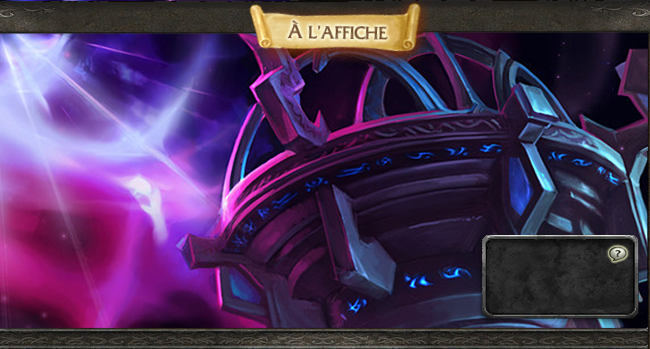
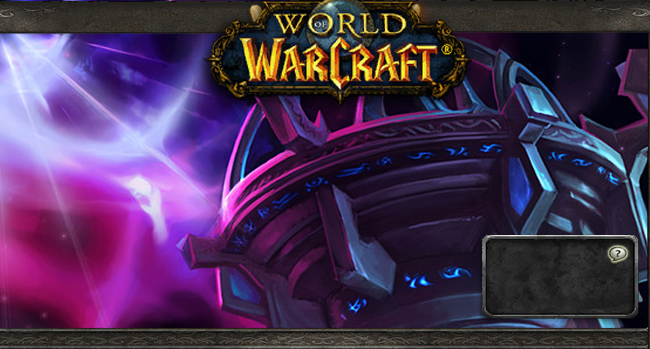
- Change background image - Add comments

Changed region(s): [[0.2769, 0.0, 0.7385, 0.3152]]

diff --git a/LauncherBox.cs b/LauncherBox.cs
@@ -35,6 +35,7 @@ namespace LauncherShyax
 {
     public partial class Launcher : Form
     {
+        #region Variables
         public bool isAllowedToDeleteCache
         {
             get { return checkBoxCache.Checked; }
@@ -47,6 +48,8 @@ namespace LauncherShyax
 
         public bool wowFound;
         private string _wowDir;
+        #endregion
+
         public Launcher()
         {
             InitializeComponent();
@@ -61,6 +64,9 @@ namespace LauncherShyax
             labelStatut.Text = "En attente de l'utilisateur...";
         }
 
+        /// <summary>
+        /// Find the game's directory locally (in the directory of the launcher) then in the registry
+        /// </summary>
         private void FindWoWDir()
         {
             labelStatut.Text = "Recherche du répertoire d'installation de World Of Warcraft...";
@@ -109,22 +115,10 @@ namespace LauncherShyax
             }
         }
 
-        private void DeleteCache()
-        {
-            const string cacheDir = "Cache";
-            DirectoryInfo cacheInfo = new DirectoryInfo(Path.Combine(_wowDir, cacheDir));
-            if (cacheInfo.Exists)
-                cacheInfo.Delete(true);
-        }
-
-        private void LaunchGame()
-        {
-            const string wowExe = "Wow.exe";
-            ProcessStartInfo wowStartInfo = new ProcessStartInfo(Path.Combine(_wowDir, wowExe));
-            Process.Start(wowStartInfo);
-            Close();
-        }
-
+        /// <summary>
+        /// Verify if we have the latest version of the server using version.xml
+        /// If the file of the latest is not found, DownloaderBox is launched
+        /// </summary>
         private void VerifyVersion()
         {
             XmlDocument xmlDoc = new XmlDocument();
@@ -156,6 +150,9 @@ namespace LauncherShyax
             }
         }
 
+        /// <summary>
+        /// Verify the status of the realm server and the world server using worldPort, realmPort and ipAddress
+        /// </summary>
         private void VerifyStatus()
         {
             IPAddress[] address = Dns.GetHostAddresses(ipAddress);
@@ -183,6 +180,9 @@ namespace LauncherShyax
             pictureBoxWorld.Visible = true;
         }
 
+        /// <summary>
+        /// Create a new realmlist.wtf
+        /// </summary>
         private void ChangeRealmlist()
         {
             const string dataDir = "Data";
@@ -191,14 +191,38 @@ namespace LauncherShyax
             FileInfo realmList = new FileInfo(Path.Combine(_wowDir, dataDir, localeDir, realmFile));
             if (realmList != null)
             {
-                realmList.Delete();                
+                realmList.Delete();
             }
             FileStream stream = realmList.Create();
-            byte[] bytes = Encoding.UTF8.GetBytes(("set realmlist "+ipAddress+":"+worldPort));
+            byte[] bytes = Encoding.UTF8.GetBytes(("set realmlist " + ipAddress + ":" + worldPort));
             stream.Write(bytes, 0, bytes.Length);
             stream.Dispose();
         }
 
+        /// <summary>
+        /// Delete the Cache/ directory
+        /// Call only when isAllowedToDeleteCache is true !
+        /// </summary>
+        private void DeleteCache()
+        {
+            const string cacheDir = "Cache";
+            DirectoryInfo cacheInfo = new DirectoryInfo(Path.Combine(_wowDir, cacheDir));
+            if (cacheInfo.Exists)
+                cacheInfo.Delete(true);
+        }
+
+        /// <summary>
+        /// Launch the game and close the launcher
+        /// </summary>
+        private void LaunchGame()
+        {
+            const string wowExe = "Wow.exe";
+            ProcessStartInfo wowStartInfo = new ProcessStartInfo(Path.Combine(_wowDir, wowExe));
+            Process.Start(wowStartInfo);
+            Close();
+        }
+
+        #region Events
         private void pictureBoxLancer_Click(object sender, EventArgs e)
         {
             if (isAllowedToDeleteCache)
@@ -216,5 +240,6 @@ namespace LauncherShyax
             HelpBox box = new HelpBox();
             box.ShowDialog();
         }
+        #endregion
     }
 }

diff --git a/LauncherBox.Designer.cs b/LauncherBox.Designer.cs
@@ -55,10 +55,11 @@
             this.checkBoxCache.Location = new System.Drawing.Point(12, 331);
             this.checkBoxCache.Name = "checkBoxCache";
             this.checkBoxCache.RightToLeft = System.Windows.Forms.RightToLeft.No;
-            this.checkBoxCache.Size = new System.Drawing.Size(94, 17);
+            this.checkBoxCache.Size = new System.Drawing.Size(95, 18);
             this.checkBoxCache.TabIndex = 1;
             this.checkBoxCache.Text = "Vider le cache";
             this.checkBoxCache.TextImageRelation = System.Windows.Forms.TextImageRelation.TextBeforeImage;
+            this.checkBoxCache.UseCompatibleTextRendering = true;
             this.checkBoxCache.UseVisualStyleBackColor = false;
             // 
             // labelStatut
@@ -114,9 +115,10 @@
             this.label1.ForeColor = System.Drawing.SystemColors.ActiveCaption;
             this.label1.Location = new System.Drawing.Point(36, 5);
             this.label1.Name = "label1";
-            this.label1.Size = new System.Drawing.Size(131, 13);
+            this.label1.Size = new System.Drawing.Size(119, 17);
             this.label1.TabIndex = 8;
             this.label1.Text = "Serveur de connexion";
+            this.label1.UseCompatibleTextRendering = true;
             // 
             // label2
             // 
@@ -126,9 +128,10 @@
             this.label2.ForeColor = System.Drawing.SystemColors.ActiveCaption;
             this.label2.Location = new System.Drawing.Point(36, 18);
             this.label2.Name = "label2";
-            this.label2.Size = new System.Drawing.Size(90, 13);
+            this.label2.Size = new System.Drawing.Size(81, 17);
             this.label2.TabIndex = 9;
             this.label2.Text = "Serveur de jeu";
+            this.label2.UseCompatibleTextRendering = true;
             // 
             // pictureBoxRealm
             // 
@@ -157,7 +160,7 @@
             this.AutoScaleDimensions = new System.Drawing.SizeF(6F, 13F);
             this.AutoScaleMode = System.Windows.Forms.AutoScaleMode.Font;
             this.BackColor = System.Drawing.Color.White;
-            this.BackgroundImage = global::LauncherShyax.Properties.Resources.Background;
+            this.BackgroundImage = global::LauncherShyax.Properties.Resources.Sans_titre_18;
             this.BackgroundImageLayout = System.Windows.Forms.ImageLayout.None;
             this.ClientSize = new System.Drawing.Size(650, 347);
             this.Controls.Add(this.pictureBoxWorld);

diff --git a/DownloaderBox.cs b/DownloaderBox.cs
@@ -43,7 +43,13 @@ namespace LauncherShyax
 
         }
 
-        public void Download(XmlNodeList nodeList, FileInfo[] mpqFiles, string wowDir)
+        /// <summary>
+        /// Download the MPQ Files which are in nodeList and not in mpqFiles
+        /// </summary>
+        /// <param name="nodeList">Node List existing in version.xml</param>
+        /// <param name="mpqFiles">MPQ Files existing in Data/ directory</param>
+        /// <param name="dataDir">Absolute path to Data/ directory</param>
+        public void Download(XmlNodeList nodeList, FileInfo[] mpqFiles, string dataDir)
         {
             foreach (XmlNode node in nodeList)
             {
@@ -56,12 +62,13 @@ namespace LauncherShyax
                     webClient.DownloadProgressChanged += new DownloadProgressChangedEventHandler(webClient_DownloadProgressChanged);
                     webClient2.DownloadStringCompleted += new DownloadStringCompletedEventHandler(webClient2_DownloadStringCompleted);
                     webClient2.DownloadStringAsync(new Uri(node.Attributes["desc"].Value));
-                    webClient.DownloadFileAsync(new Uri(node.Attributes["lien"].Value), Path.Combine(wowDir, node.InnerText));
+                    webClient.DownloadFileAsync(new Uri(node.Attributes["lien"].Value), Path.Combine(dataDir, node.InnerText));
                 }
             }
             buttonClose.Visible = true;
         }
 
+        #region Events
         void webClient2_DownloadStringCompleted(object sender, DownloadStringCompletedEventArgs e)
         {
             labelMaj.Text = e.Result;
@@ -76,5 +83,6 @@ namespace LauncherShyax
         {
             Close();
         }
+        #endregion
     }
 }

diff --git a/HelpBox.Designer.cs b/HelpBox.Designer.cs
@@ -38,13 +38,14 @@
             // 
             this.label1.AutoEllipsis = true;
             this.label1.Font = new System.Drawing.Font("Arial", 8.25F, System.Drawing.FontStyle.Regular, System.Drawing.GraphicsUnit.Point, ((byte)(0)));
-            this.label1.Location = new System.Drawing.Point(12, 174);
+            this.label1.Location = new System.Drawing.Point(12, 161);
             this.label1.Name = "label1";
-            this.label1.Size = new System.Drawing.Size(260, 79);
+            this.label1.Size = new System.Drawing.Size(260, 92);
             this.label1.TabIndex = 0;
             this.label1.Text = "WoWLauncher est une application écrite en C# avec le Framework .NET 4 distribué s" +
                 "ous licence GNU GPL.\r\nPour toutes informations supplémentaires, allez sur Zone E" +
                 "mu.\r\n\r\n© Shyax 2011\r\n";
+            this.label1.UseCompatibleTextRendering = true;
             // 
             // pictureBox1
             // 

diff --git a/Properties/Resources.Designer.cs b/Properties/Resources.Designer.cs
@@ -95,6 +95,13 @@ namespace LauncherShyax.Properties {
             }
         }
         
+        internal static System.Drawing.Bitmap Sans_titre_18 {
+            get {
+                object obj = ResourceManager.GetObject("Sans-titre-18", resourceCulture);
+                return ((System.Drawing.Bitmap)(obj));
+            }
+        }
+        
         internal static System.Drawing.Bitmap up {
             get {
                 object obj = ResourceManager.GetObject("up", resourceCulture);
